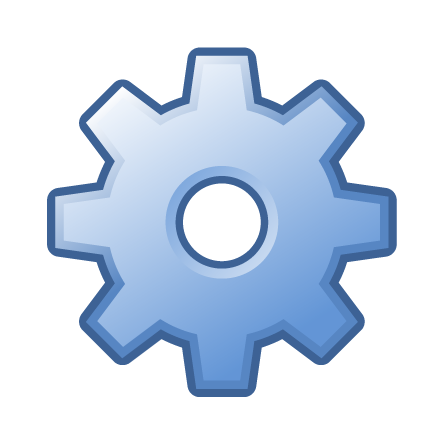
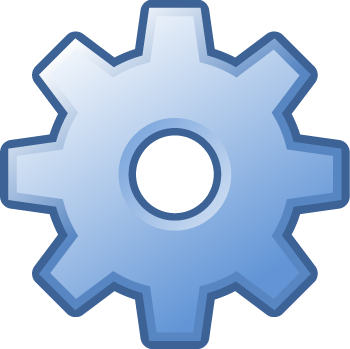
cosas q hizo flor

diff --git a/awesome-tim/awesome-tim/GeneradorYAML.cpp b/awesome-tim/awesome-tim/GeneradorYAML.cpp
@@ -17,14 +17,22 @@ return out;
 };
 YAML::Emitter& operator << (YAML::Emitter& out,DLinea* dimlinea){
 
-out << YAML::Key << "x1";
-out << YAML::Value << dimlinea->x1;
-out << YAML::Key << "y1";
-out << YAML::Value << dimlinea->y1;
-out << YAML::Key << "x2";
-out << YAML::Value << dimlinea->x2;
-out << YAML::Key << "y2";
-out << YAML::Value << dimlinea->y2;
+out << YAML::Key << "extremo1";
+out << YAML::Value << YAML::BeginMap;
+	out << YAML::Key << "posX";
+	out << YAML::Value << dimlinea->x1;
+	out << YAML::Key << "posY";
+	out << YAML::Value << dimlinea->y1;
+out << YAML::EndMap;
+
+
+out << YAML::Key << "extremo2";
+out << YAML::Value << YAML::BeginMap;
+	out << YAML::Key << "posX";
+	out << YAML::Value << dimlinea->x2;
+	out << YAML::Key << "posY";
+	out << YAML::Value << dimlinea->y2;
+out << YAML::EndMap;
 
 return out;
 };
@@ -90,7 +98,7 @@ YAML::Emitter& operator << (YAML::Emitter& out,Figura* fig){
 				out << YAML::Value << fig->getLargo();
 				break;
 
-			case SOGA: //que hay q guardar?
+			case SOGA:
 				out << YAML::Value << "SOGA";
 				out << (DLinea*) fig->getDimension();
 				break;
@@ -212,12 +220,24 @@ YAML::Emitter& operator << (YAML::Emitter& out,Terreno* terreno){
 			//itero y imprimo de a una las figuras en sequence
 			std::list<Figura*> lista_figs = terreno->getListaFigs();
 			std::list<Figura*>::iterator iter;
+			std::list<Figura*> figurasAux;
+
 			for (iter = lista_figs.begin(); iter != lista_figs.end(); ++iter){
-				out << YAML::BeginMap;
-				out << YAML::Key << "figura";
-				out << YAML::Value << (*iter);
-				out << YAML::EndMap;
+				if((*iter)->esUnion()){
+					figurasAux.push_back((*iter));
+				}else{
+					out << YAML::BeginMap;
+					out << YAML::Key << "figura";
+					out << YAML::Value << (*iter);
+					out << YAML::EndMap;
+				}
 			};
+			for (iter = figurasAux.begin() ; iter != figurasAux.end(); ++iter){
+					out << YAML::BeginMap;
+					out << YAML::Key << "figura";
+					out << YAML::Value << (*iter);
+					out << YAML::EndMap;
+			}
 		out << YAML::EndSeq;
 
 	out << YAML::EndMap;

diff --git a/awesome-tim/awesome-tim/CargadorYaml.cpp b/awesome-tim/awesome-tim/CargadorYaml.cpp
@@ -191,7 +191,30 @@ void CargadorYaml::obtenerVertices(const YAML::Node& nodoFigura,int* vertices){
 		*vertices = VERTICES_DEFAULT;
 	}
 }
+void CargadorYaml::obtenerExtremos(const YAML::Node& nodoFigura,double* x1,double* y1,double* x2,double* y2){
 
+	const YAML::Node& nodoPos = nodoFigura;
+	try{
+		//nodoFigura["extremo1"] >> nodoPos;
+	}catch(YAML::TypedKeyNotFound<std::string> &e){
+		imprimir_error_excepcion("No existe extremo1 de figura. No se carga la figura.",e.what());
+		return;
+	}catch(YAML::InvalidScalar &e){
+		imprimir_error_excepcion("Dato erroneo de extremo1 de figura. No se carga la figura.",e.what());
+		return;
+	}
+	obtenerPosicion(nodoPos,x1,y1);
+
+	try{
+		//nodoFigura["extremo2"] >> nodoPos;
+	}catch(YAML::TypedKeyNotFound<std::string> &e){
+		imprimir_error_excepcion("No existe extremo2 de figura. No se carga la figura.",e.what());
+		return;
+	}catch(YAML::InvalidScalar &e){
+		imprimir_error_excepcion("Dato erroneo de extremo2 de figura. No se carga la figura.",e.what());
+		return;
+	}
+}
 /**********************************************************
 **                                                       **
 **                    CREAR FIGURAS                      **
@@ -243,7 +266,9 @@ Figura* CargadorYaml::crearMotor(const YAML::Node& nodoFigura){
 }
 
 Figura* CargadorYaml::crearSoga(const YAML::Node& nodoFigura){
-	return NULL;
+	double x1,y1,x2,y2;
+	
+	return new Soga(x1,y1,x2,y2);
 }
 
 Figura* CargadorYaml::crearCorrea(const YAML::Node& nodoFigura){
@@ -916,4 +941,3 @@ void CargadorYaml::imprimir_error_excepcion(std::string mensaje,std::string what
 	std::string full_msj = msj + " " + what;
 	ErrorLogHandler::addError("CargadorYaml",full_msj.c_str());
 }
-

diff --git a/awesome-tim/awesome-tim/Constantes.h b/awesome-tim/awesome-tim/Constantes.h
@@ -85,7 +85,7 @@
 #define DENSIDAD_PELOTABOWLING 6.0
 #define FRICCION_PELOTABOWLING 0.3
 
-#define RADIO_GLOBOHELIO 4.0
+#define RADIO_GLOBOHELIO 8.0
 #define RESTITUCION_GLOBOHELIO 0.1
 #define FRICCION_GLOBOHELIO 0.01
 #define DENSIDAD_GLOBOHELIO 0.5 //si se baja verificar que siga moviendo las plataformas
@@ -140,11 +140,11 @@
 //id imagenes
 #define ImgSegmSoga "../images/Cuadrado.png"
 #define ID_PLATAFORMA "../images/plataforma_madera.png"
-#define ID_GLOBO "../images/Globo-Azul.jpg"
+#define ID_GLOBO "../images/globo2.png"
 #define ID_PELOTATENIS "../images/Pelota-Tenis.png"
 #define ID_PELOTABASQUET "../images/Pelota-Basket.png"
 #define ID_PELOTABOWLING "../images/Bowling.png"
-#define ID_ENGRANAJE "../images/engranaje.png"
+#define ID_ENGRANAJE "../images/Icon-Gear02-Blue.png"
 
 #define ID_ENGRANAJE2_1 "../images/engranaje2-1.png"
 #define ID_ENGRANAJE2_2 "../images/engranaje2-2.png"

diff --git a/awesome-tim/awesome-tim/CargadorYaml.h b/awesome-tim/awesome-tim/CargadorYaml.h
@@ -28,6 +28,8 @@
 #include "Engranaje.h"
 #include "Engranaje2.h"
 #include "Balancin.h"
+#include "Linea.h"
+#include "Soga.h"
 
 #include "GeneradorDeFigurasCompuestas.h"
 
@@ -91,5 +93,5 @@ private:
 	static void obtenerRadio(const YAML::Node& nodoFigura,double* radio);
 	static void obtenerVertices(const YAML::Node& nodoFigura,int* vertices);
 	static void obtenerBaseTriangulo(const YAML::Node& nodoFigura, double* base);
-
+	static void obtenerExtremos(const YAML::Node& nodoFigura,double* x1,double* y1,double* x2,double* y2);
 };

diff --git a/awesome-tim/awesome-tim/PelotaBasquet.h b/awesome-tim/awesome-tim/PelotaBasquet.h
@@ -21,4 +21,8 @@ public:
 //	virtual bool choqueConFigura(Figura* fig);
 
 //	virtual bool choqueConDimension(Dimension* dim);
+
+	virtual int esAtableSoga(double x,double y){
+		return 1;
+	}
 };

diff --git a/awesome-tim/awesome-tim/DLinea.h b/awesome-tim/awesome-tim/DLinea.h
@@ -22,7 +22,7 @@ public:
 
 	virtual double getAncho(){
 		if(!activo)return 10;
-		else return abs(x1-x2);
+		else return abs(x1-x2)*2;
 	};
 	virtual double getAlto(){
 		if(!activo)return 10;
